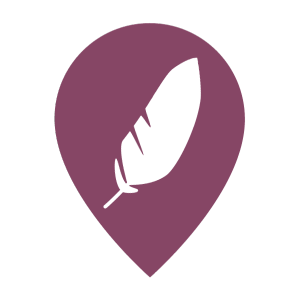
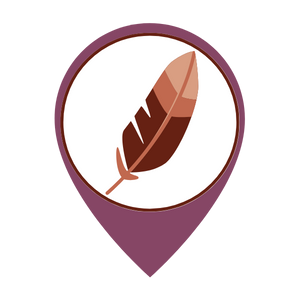
added more markers

Changed region(s): [[0.18, 0.09, 0.81, 0.72]]

diff --git a/src/main/resources/static/js/maps.js b/src/main/resources/static/js/maps.js
@@ -134,12 +134,13 @@ function createMarkers(map, data) {
         <p>${description}</p>
     </div>`;
 
+        //map markers!!!
         const marker = new google.maps.Marker({
             position: { lat: parseFloat(item.latitude), lng: parseFloat(item.longitude) },
             map: map,
             title: item.common_name,
             icon: {
-                url: '/images/mapmarker2.png', // You can specify a default marker icon
+                url: '/images/mapmarker7.png', // You can specify a default marker icon
                 scaledSize: new google.maps.Size(45, 45),
             },
             content: markerContent, // Custom property to store marker content
